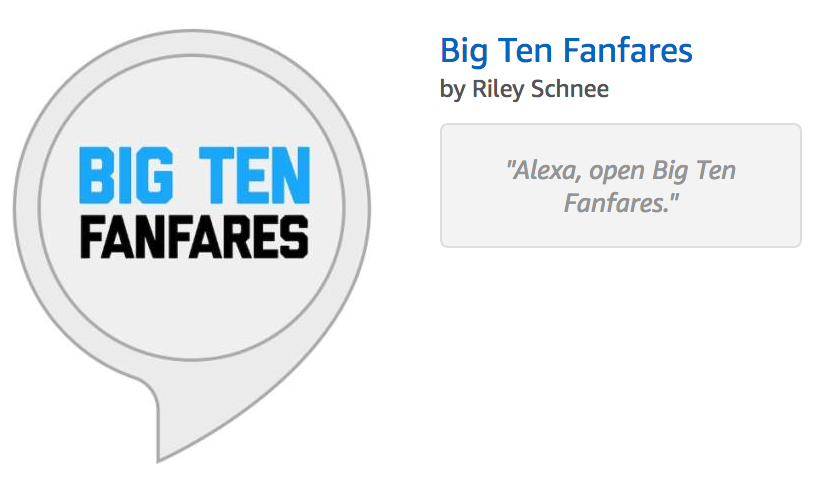
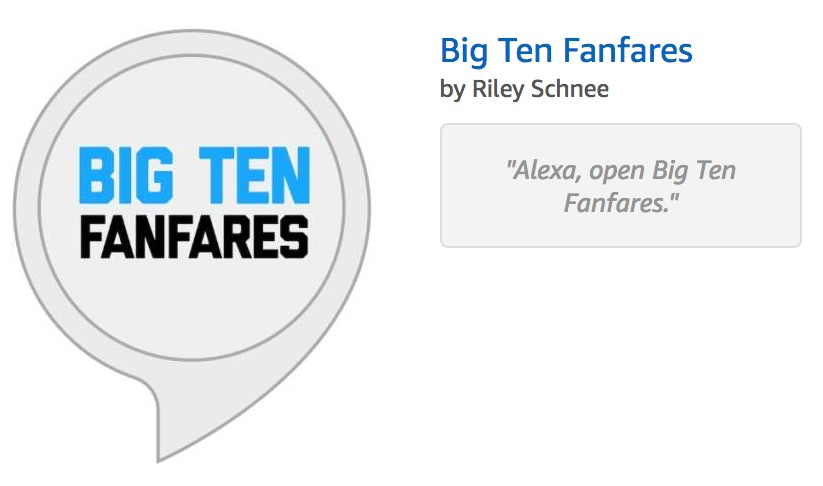
Fix for images

Changed region(s): [[0.5164, 0.0617, 0.8505, 0.216]]

diff --git a/index.html b/index.html
@@ -119,14 +119,14 @@
             <figcaption class="text-center"> Loudoun Codes<br> Loudoun Computer Science Initiative <br> Summer 2016 - Present <br> Loudoun County, VA </figcaption>
           </figure>
           <figure class="col-lg-6 col-md-6 col-sm-12">
-            <!--Error with this link<a href="https://airandspace.si.edu/support/get-involved/student-jobs">--> <img src="https://rileyschnee.github.io/images/explainer.jpg" class="img-fluid" alt="NASM-UHC Explainer"><!--Error with this link</a>-->
+            <!--Error with this link<a href="https://airandspace.si.edu/support/get-involved/student-jobs">--> <img src="images/explainer.png" class="img-fluid" alt="NASM-UHC Explainer"><!--Error with this link</a>-->
             <figcaption class="text-center"> Smithsonian National Air and Space Museum <br> Udvar-Hazy Center Explainers Program <br> March 2016 - August 2017 <br> Chantilly, VA </figcaption>
           </figure>
 
           <div class="row">
 
           <figure class="col-lg-6 col-md-6 col-sm-12">
-            <!--Error with this link<a href="https://www.samsung.com/us/solvefortomorrow/">--><img src="https://rileyschnee.github.io/images/samsung.jpg" class="img-fluid" alt="Solve for Tomorrow"><!--Error with this link</a>-->
+            <!--Error with this link<a href="https://www.samsung.com/us/solvefortomorrow/">--><img src="images/samsung.png" class="img-fluid" alt="Solve for Tomorrow"><!--Error with this link</a>-->
             <figcaption class="text-center"> 2016 Samsung Solve for Tomorrow Contest<br> Loudoun Valley HS STEM Club <br> September 2015 - April 2016 <br> Purcellville, VA </figcaption>
           </figure>
 
@@ -142,7 +142,7 @@
       <div class="col-md-4 col-lg-4 col-sm-12">
         <div class="card">
           <div class="card-img">
-            <img src="https://rileyschnee.github.io/images/p1-alexa.png" class="img-fluid" alt="Big Ten Fanfares">
+            <img src="images/p1-alexa.png" class="img-fluid" alt="Big Ten Fanfares">
           </div>
           
           <div class="card-body">
